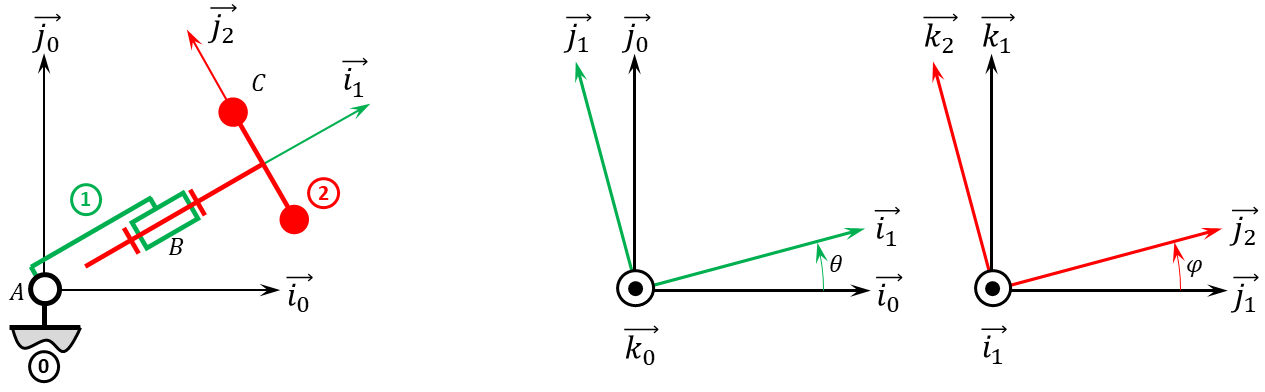
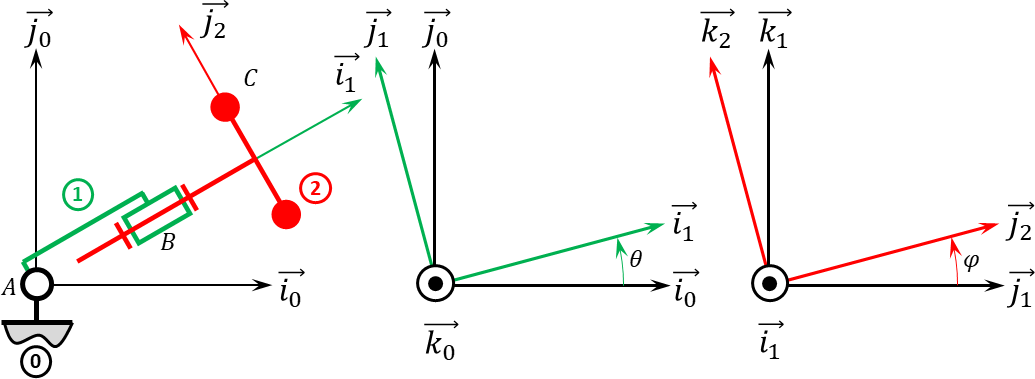
MAJ

diff --git a/DYN/DYN-05-Methode/09_RT_RSG/09_RT_RSG.tex b/DYN/DYN-05-Methode/09_RT_RSG/09_RT_RSG.tex
@@ -26,11 +26,22 @@ On fait l'hypothèse de roulement sans glissement au point $I$. De plus :
 \item $G_2=B$ désigne le centre d'inertie de \textbf{2}, on note $m_2$ la masse de \textbf{2}.% et $\inertie{G_2}{2}=\matinertie{A_2}{B_2}{C_2}{0}{0}{0}{\bas{2}}$.
 \end{itemize}
 Un ressort exerce une action mécanique entre les points $A$ et $B$. 
+
+\fi
+
+
+\ifprof
+\begin{marginfigure}
+\includegraphics[width=\linewidth]{09_RT_RSG_01}
+\end{marginfigure}
+\else
+
 \begin{figure}[!h]
 \centering
-\includegraphics[width=\linewidth]{09_RT_RSG_01}
+\includegraphics[width=.7\linewidth]{09_RT_RSG_01}
 \end{figure}
 \fi
+
 
 \question{Réaliser le graphe d'analyse en faisant apparaître l'ensemble des actions mécaniques.}
 \ifprof

diff --git a/STAT/STAT-03-Demarche/07_RR3D/07_RR3D.tex b/STAT/STAT-03-Demarche/07_RR3D/07_RR3D.tex
@@ -16,6 +16,11 @@
 \fi
 
 \ifprof
+
+\begin{marginfigure}
+\centering
+\includegraphics[width=\linewidth]{07_RR3D_01}
+\end{marginfigure}
 \else
 Soit le mécanisme suivant. On a $\vect{AB}=R\vect{i_1}$ et $\vect{BC}=\ell\vect{i_2}+r\vect{j_2}$. On note $R+\ell=L = \SI{20}{mm}$ et $r=\SI{10}{mm}$. De plus :
 \begin{itemize}
@@ -29,7 +34,8 @@ Un moteur électrique positionné entre \textbf{1} et \textbf{2} permet de maint
 L'accélération de la pesanteur est donnée par $\vect{g}=-g\vect{j_0}$.
 
 \begin{figure}[!h]
-\includegraphics[width=\linewidth]{07_RR3D_01}
+\centering
+\includegraphics[width=.8\linewidth]{07_RR3D_01}
 \end{figure}
 \fi
 

diff --git a/DYN/DYN-05-Methode/05_RT/05_RT.tex b/DYN/DYN-05-Methode/05_RT/05_RT.tex
@@ -30,11 +30,19 @@ Un moteur électrique positionné entre \textbf{0} et \textbf{1} permet d'action
 Un vérin électrique positionné entre \textbf{1} et \textbf{2} permet d'actionner le solide \textbf{2}
 
 L'accélération de la pesanteur est donnée par $\vect{g}=-g\vect{j_0}$.
-
+\fi
+\ifprof
 \begin{marginfigure}
 \includegraphics[width=\linewidth]{05_RT_01}
 \end{marginfigure}
+\else
+
+\begin{figure}[!h]
+\centering
+\includegraphics[width=.7\linewidth]{05_RT_01}
+\end{figure}
 \fi
+
 
 \question{Réaliser le graphe d'analyse en faisant apparaître l'ensemble des actions mécaniques.}
 \ifprof
